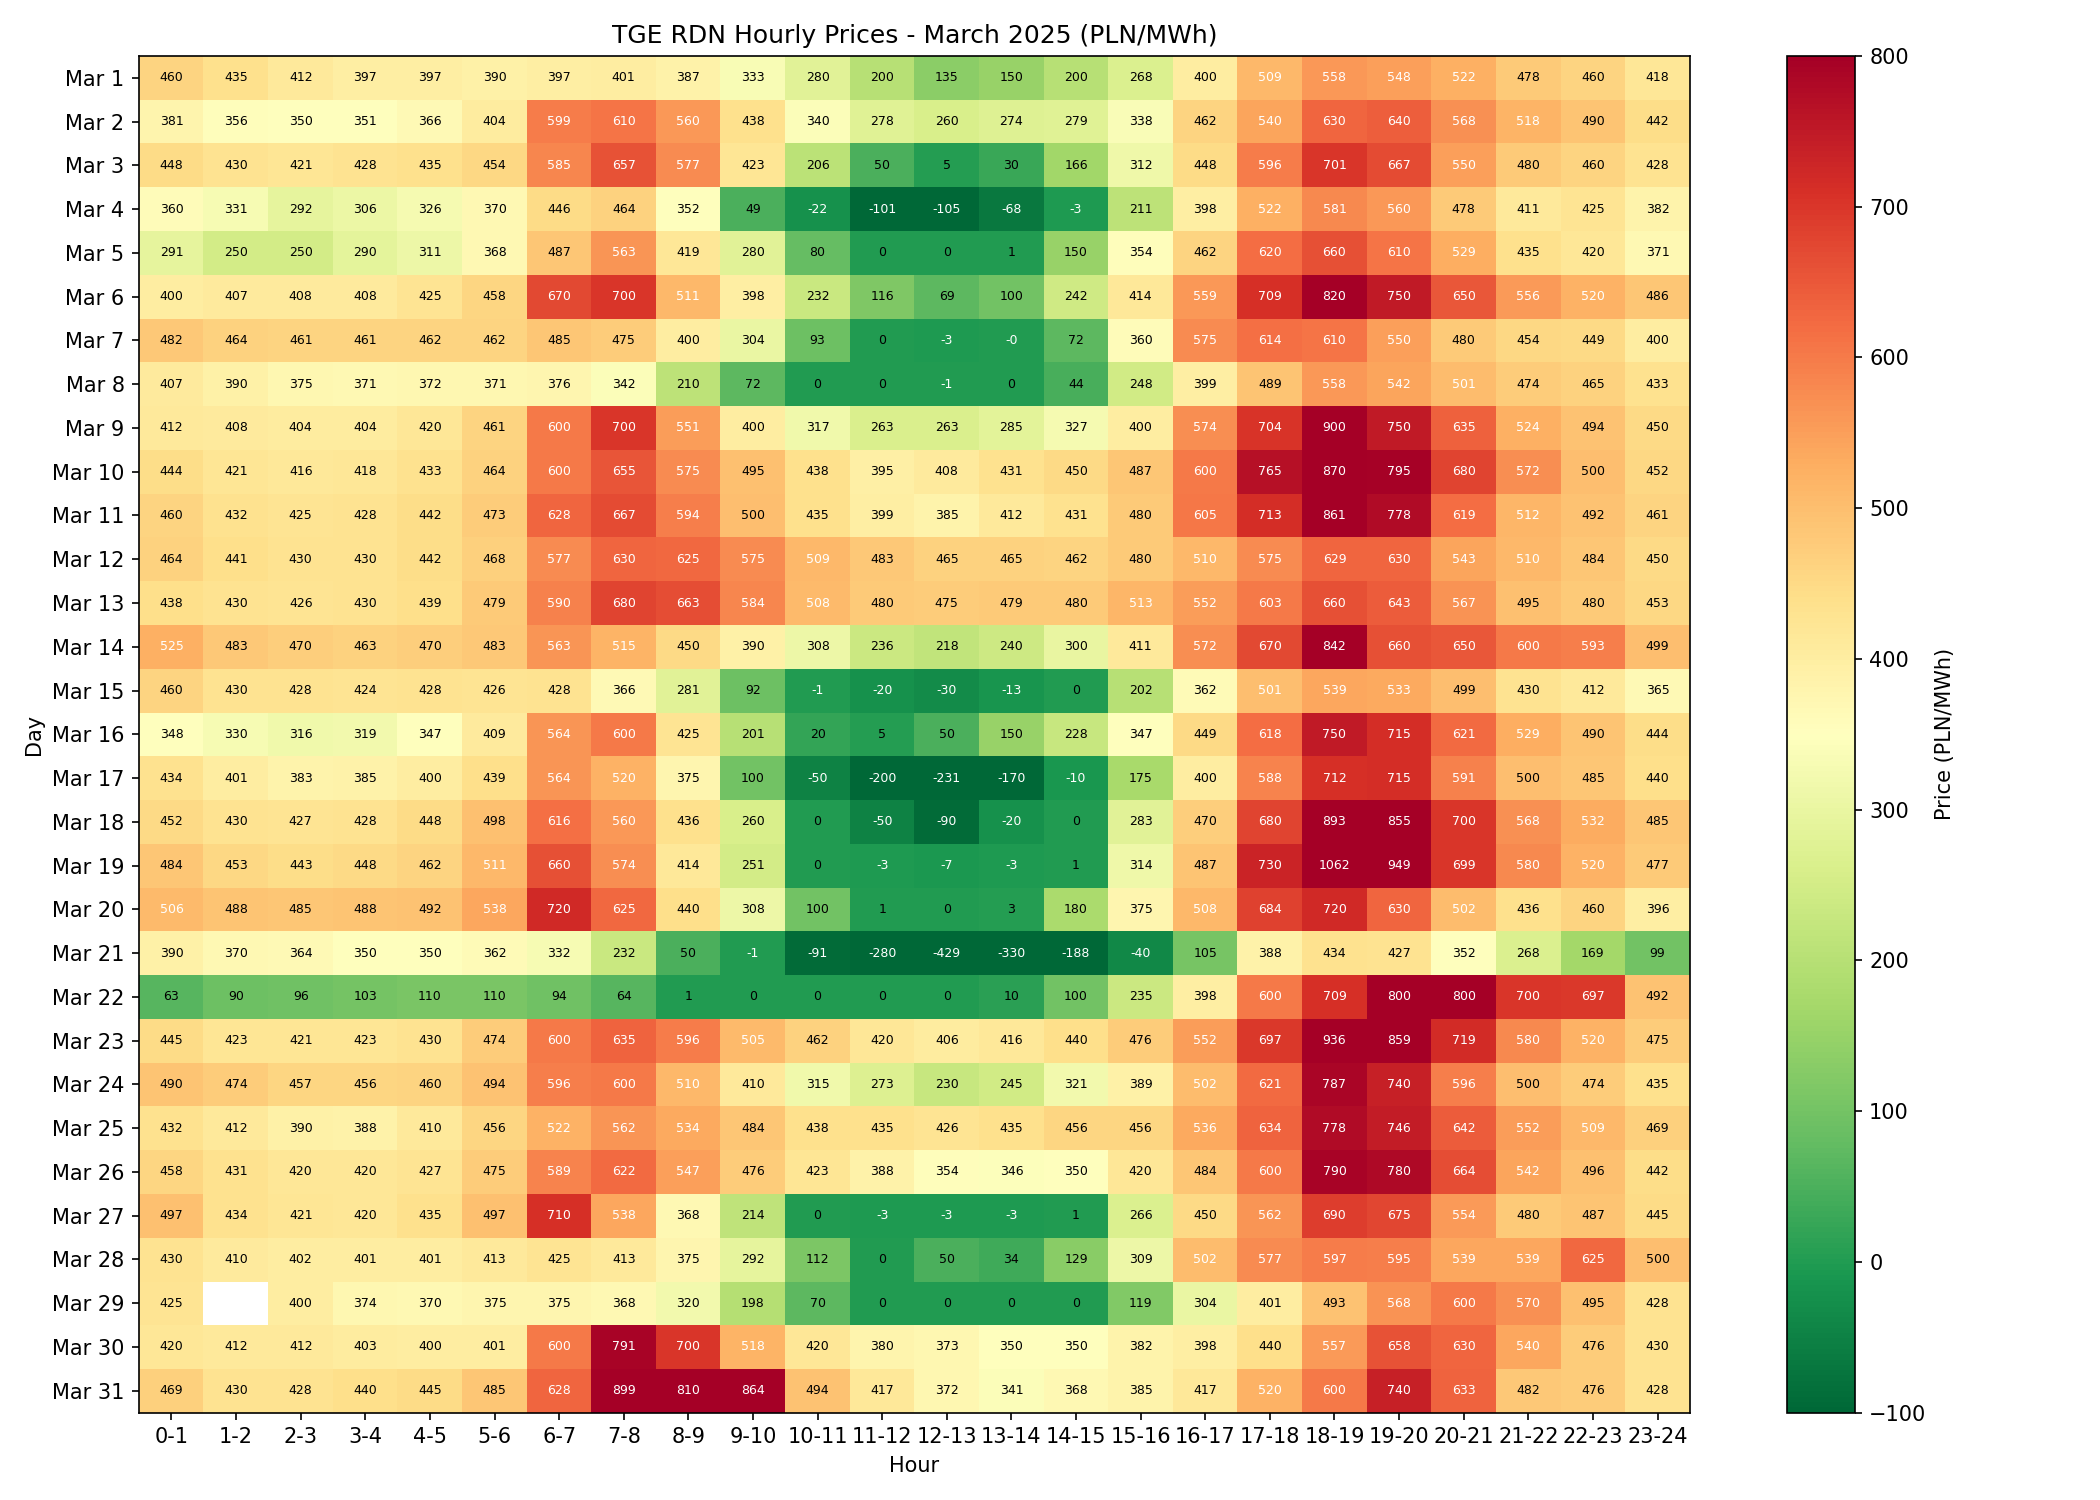
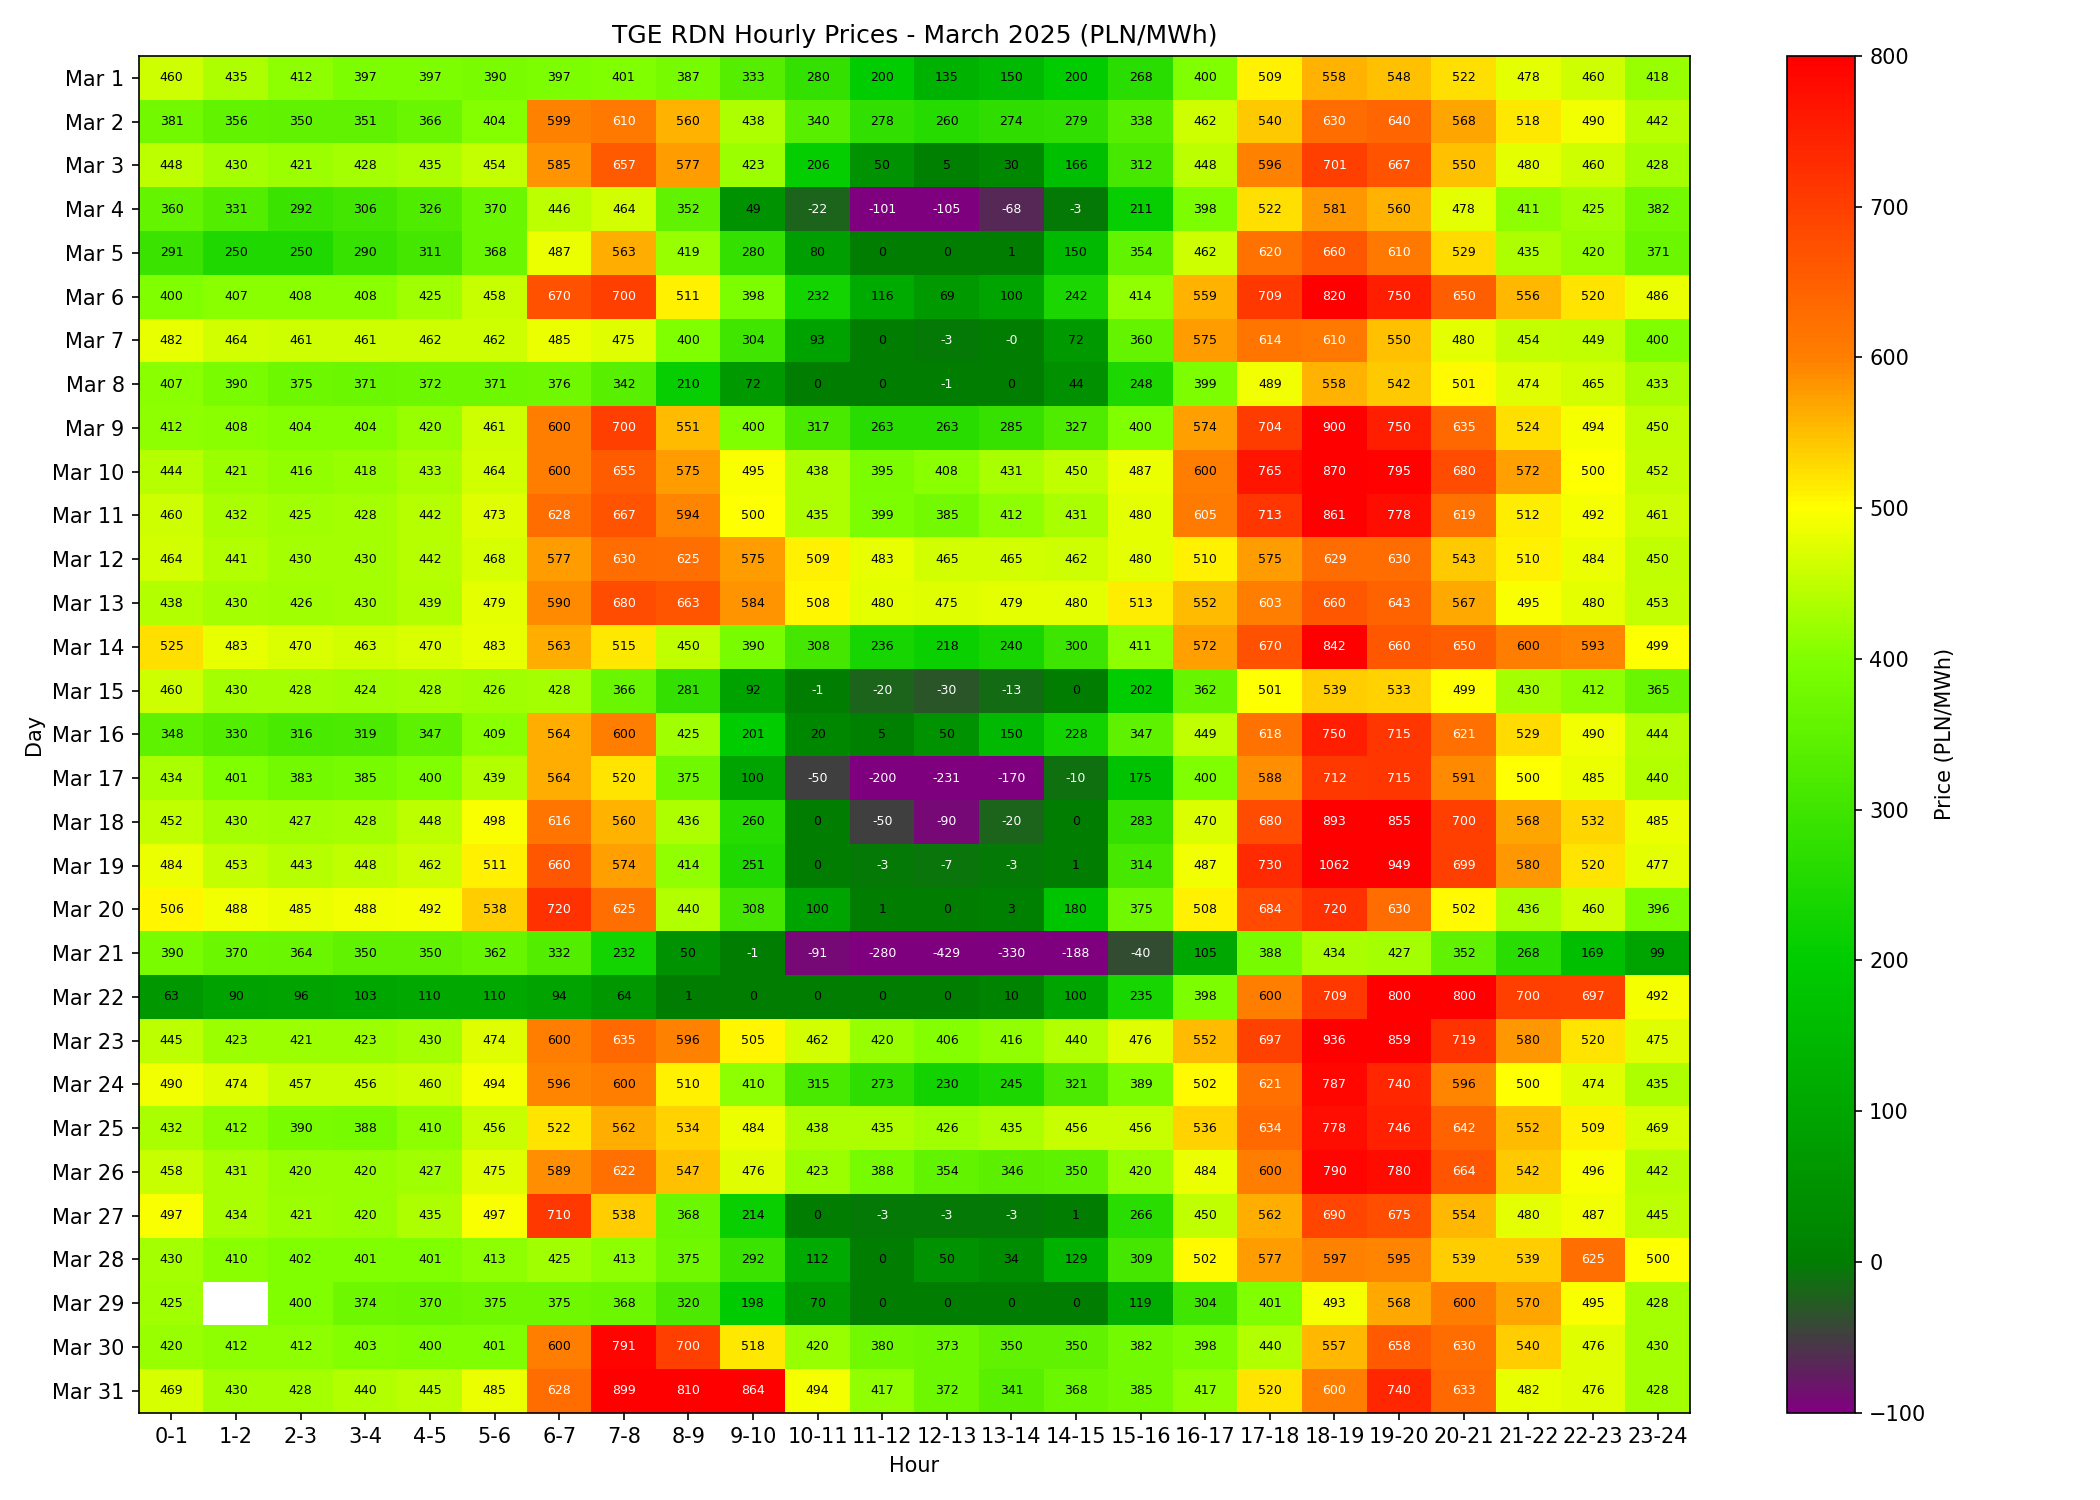
mapa kolumny

diff --git a/all.png.py b/all.png.py
@@ -1,0 +1,92 @@
+Ran terminal command: ./myvenv/bin/python -c "
+import pandas as pd
+import matplotlib.pyplot as plt
+import numpy as np
+import calendar
+from matplotlib.colors import LinearSegmentedColormap
+
+# Wczytaj dane dla wszystkich miesięcy
+all_data = {}
+files = {
+    1: 'tge_rdn_hourly_2025-01.csv',
+    2: 'tge_rdn_hourly_2025-02.csv',
+    3: 'tge_rdn_hourly_2025-03.csv',
+    4: 'tge_rdn_hourly_2025-04.csv',
+    5: 'tge_rdn_hourly_2025-05.csv',
+    6: 'tge_rdn_hourly_2025-06.csv',
+    7: 'tge_rdn_hourly_2025-07.csv',
+    8: 'tge_rdn_hourly_2025-08.csv',
+    9: 'tge_rdn_hourly_2025-09.csv',
+    10: 'tge_rdn_hourly_2025-10.xlsx.csv',
+    11: 'tge_rdn_hourly_2025-11.csv',
+    12: 'tge_rdn_hourly_2025-12.csv',
+}
+
+for month, file in files.items():
+    df = pd.read_csv(file)
+    df['date'] = pd.to_datetime(df['date'])
+    df['day'] = df['date'].dt.day
+    df = df.groupby(['day', 'hour_from'], as_index=False).agg({'price_pln_per_mwh': 'mean'})
+    pivot = df.pivot(index='day', columns='hour_from', values='price_pln_per_mwh')
+    all_data[month] = pivot
+
+# Paleta kolorów
+colors = [
+    (0.5, 0.0, 0.5),    # fioletowy dla ujemnych (-100)
+    (0.0, 0.5, 0.0),    # ciemnozielony (0)
+    (0.0, 0.8, 0.0),    # zielony (200)
+    (0.5, 1.0, 0.0),    # żółtozielony (400)
+    (1.0, 1.0, 0.0),    # żółty (500)
+    (1.0, 0.5, 0.0),    # pomarańczowy (600)
+    (1.0, 0.0, 0.0),    # czerwony (800)
+]
+positions = [0.0, 0.111, 0.333, 0.556, 0.667, 0.778, 1.0]
+cmap = LinearSegmentedColormap.from_list('custom_rdn', list(zip(positions, colors)))
+
+# Utwórz figurę 4x3
+fig, axes = plt.subplots(4, 3, figsize=(24, 28))
+fig.suptitle('TGE RDN Hourly Prices - 2025 (PLN/MWh)', fontsize=20, fontweight='bold')
+
+for idx, month in enumerate(range(1, 13)):
+    row = idx // 3
+    col = idx % 3
+    ax = axes[row, col]
+    
+    pivot = all_data[month]
+    month_name = calendar.month_name[month]
+    
+    im = ax.imshow(pivot.values, aspect='auto', cmap=cmap, vmin=-100, vmax=800)
+    
+    ax.set_xticks(np.arange(24))
+    ax.set_xticklabels([f'{h}' for h in range(24)], fontsize=6)
+    ax.set_yticks(np.arange(len(pivot.index)))
+    ax.set_yticklabels([f'{d}' for d in pivot.index], fontsize=6)
+    
+    ax.set_xlabel('Hour', fontsize=8)
+    ax.set_ylabel('Day', fontsize=8)
+    ax.set_title(f'{month_name} 2025', fontsize=12, fontweight='bold')
+    
+    # Wartości w komórkach (mniejsza czcionka)
+    for i in range(len(pivot.index)):
+        for j in range(24):
+            val = pivot.values[i, j]
+            if not np.isnan(val):
+                if val < 0:
+                    text_color = 'white'
+                elif val > 600:
+                    text_color = 'white'
+                else:
+                    text_color = 'black'
+                ax.text(j, i, f'{val:.0f}', ha='center', va='center', 
+                       fontsize=4, color=text_color)
+
+# Colorbar
+cbar = fig.colorbar(im, ax=axes, orientation='horizontal', fraction=0.02, pad=0.04)
+cbar.set_label('Price (PLN/MWh)', fontsize=12)
+
+plt.tight_layout(rect=[0, 0.03, 1, 0.97])
+plt.savefig('tge_rdn_heatmap_2025_all.png', dpi=150)
+print('Saved: tge_rdn_heatmap_2025_all.png')
+"
+
+Ran terminal command: ls -la tge_rdn_heatmap_2025_all.png

diff --git a/all_column.py b/all_column.py
@@ -1,0 +1,90 @@
+Ran terminal command: ./myvenv/bin/python -c "
+import pandas as pd
+import matplotlib.pyplot as plt
+import numpy as np
+import calendar
+from matplotlib.colors import LinearSegmentedColormap
+
+# Wczytaj dane dla wszystkich miesięcy
+all_data = {}
+files = {
+    1: 'tge_rdn_hourly_2025-01.csv',
+    2: 'tge_rdn_hourly_2025-02.csv',
+    3: 'tge_rdn_hourly_2025-03.csv',
+    4: 'tge_rdn_hourly_2025-04.csv',
+    5: 'tge_rdn_hourly_2025-05.csv',
+    6: 'tge_rdn_hourly_2025-06.csv',
+    7: 'tge_rdn_hourly_2025-07.csv',
+    8: 'tge_rdn_hourly_2025-08.csv',
+    9: 'tge_rdn_hourly_2025-09.csv',
+    10: 'tge_rdn_hourly_2025-10.xlsx.csv',
+    11: 'tge_rdn_hourly_2025-11.csv',
+    12: 'tge_rdn_hourly_2025-12.csv',
+}
+
+for month, file in files.items():
+    df = pd.read_csv(file)
+    df['date'] = pd.to_datetime(df['date'])
+    df['day'] = df['date'].dt.day
+    df = df.groupby(['day', 'hour_from'], as_index=False).agg({'price_pln_per_mwh': 'mean'})
+    pivot = df.pivot(index='day', columns='hour_from', values='price_pln_per_mwh')
+    all_data[month] = pivot
+
+# Paleta kolorów
+colors = [
+    (0.5, 0.0, 0.5),    # fioletowy dla ujemnych (-100)
+    (0.0, 0.5, 0.0),    # ciemnozielony (0)
+    (0.0, 0.8, 0.0),    # zielony (200)
+    (0.5, 1.0, 0.0),    # żółtozielony (400)
+    (1.0, 1.0, 0.0),    # żółty (500)
+    (1.0, 0.5, 0.0),    # pomarańczowy (600)
+    (1.0, 0.0, 0.0),    # czerwony (800)
+]
+positions = [0.0, 0.111, 0.333, 0.556, 0.667, 0.778, 1.0]
+cmap = LinearSegmentedColormap.from_list('custom_rdn', list(zip(positions, colors)))
+
+# Utwórz figurę 12x1 (1 kolumna)
+fig, axes = plt.subplots(12, 1, figsize=(20, 70))
+fig.suptitle('TGE RDN Hourly Prices - 2025 (PLN/MWh)', fontsize=24, fontweight='bold', y=0.995)
+
+for idx, month in enumerate(range(1, 13)):
+    ax = axes[idx]
+    
+    pivot = all_data[month]
+    month_name = calendar.month_name[month]
+    
+    im = ax.imshow(pivot.values, aspect='auto', cmap=cmap, vmin=-100, vmax=800)
+    
+    ax.set_xticks(np.arange(24))
+    ax.set_xticklabels([f'{h}' for h in range(24)], fontsize=8)
+    ax.set_yticks(np.arange(len(pivot.index)))
+    ax.set_yticklabels([f'{d}' for d in pivot.index], fontsize=7)
+    
+    ax.set_xlabel('Hour', fontsize=10)
+    ax.set_ylabel('Day', fontsize=10)
+    ax.set_title(f'{month_name} 2025', fontsize=14, fontweight='bold')
+    
+    # Wartości w komórkach
+    for i in range(len(pivot.index)):
+        for j in range(24):
+            val = pivot.values[i, j]
+            if not np.isnan(val):
+                if val < 0:
+                    text_color = 'white'
+                elif val > 600:
+                    text_color = 'white'
+                else:
+                    text_color = 'black'
+                ax.text(j, i, f'{val:.0f}', ha='center', va='center', 
+                       fontsize=5, color=text_color)
+
+# Colorbar na dole
+cbar = fig.colorbar(im, ax=axes, orientation='horizontal', fraction=0.01, pad=0.02, aspect=50)
+cbar.set_label('Price (PLN/MWh)', fontsize=12)
+
+plt.tight_layout(rect=[0, 0.01, 1, 0.995])
+plt.savefig('tge_rdn_heatmap_2025_column.png', dpi=150)
+print('Saved: tge_rdn_heatmap_2025_column.png')
+"
+
+Ran terminal command: ls -lh tge_rdn_heatmap_2025_column.png

diff --git a/generuj_heatmap.py b/generuj_heatmap.py
@@ -32,6 +32,9 @@ def generate_heatmap(csv_file: str):
     month_name = calendar.month_name[month]
     month_str = f"{year}-{month:02d}"
     
+    # Obsłuż duplikaty (np. zmiana czasu - 25h w październiku) - bierzemy średnią
+    df = df.groupby(['day', 'hour_from'], as_index=False).agg({'price_pln_per_mwh': 'mean'})
+    
     # Pivot table: days as rows, hours as columns
     pivot = df.pivot(index='day', columns='hour_from', values='price_pln_per_mwh')
     

diff --git a/README.md b/README.md
@@ -1,2 +1,5 @@
 # taryfa-dynamiczna
 oplacalnosc taryfy dynamicznej
+
+dane za 01-10.2025 obierane ze starego api, byl tam fixing1 fixing2, od 17.11.2025 dane pobrane z nowego api
+starsze dane mozliwe ze maja drobne przeklamanie cenowe, chodzilo bardziej o poznanie wizualne rozkladu cen w ciagu dnia
